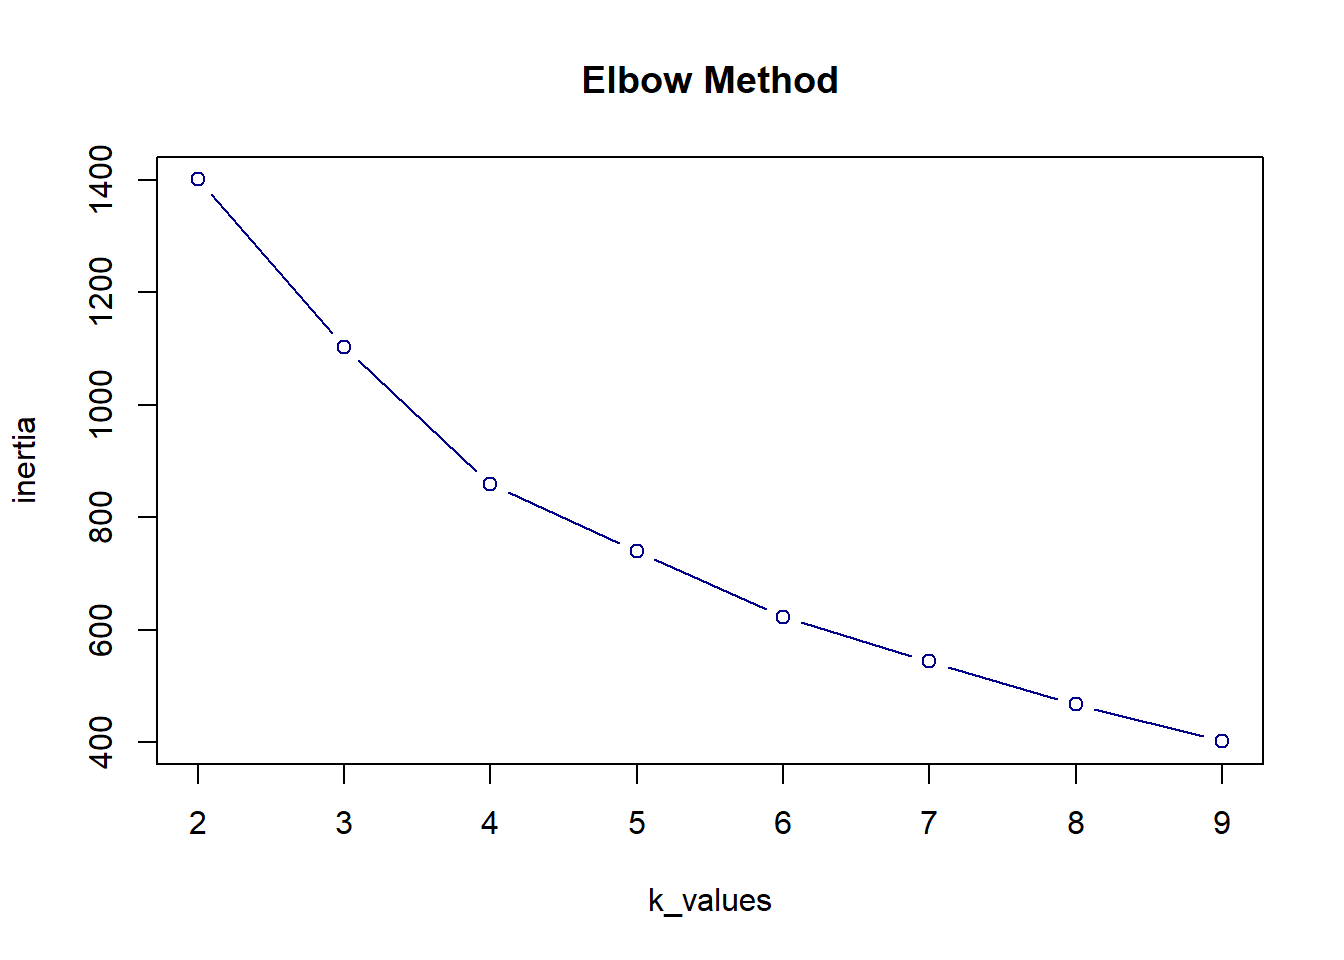
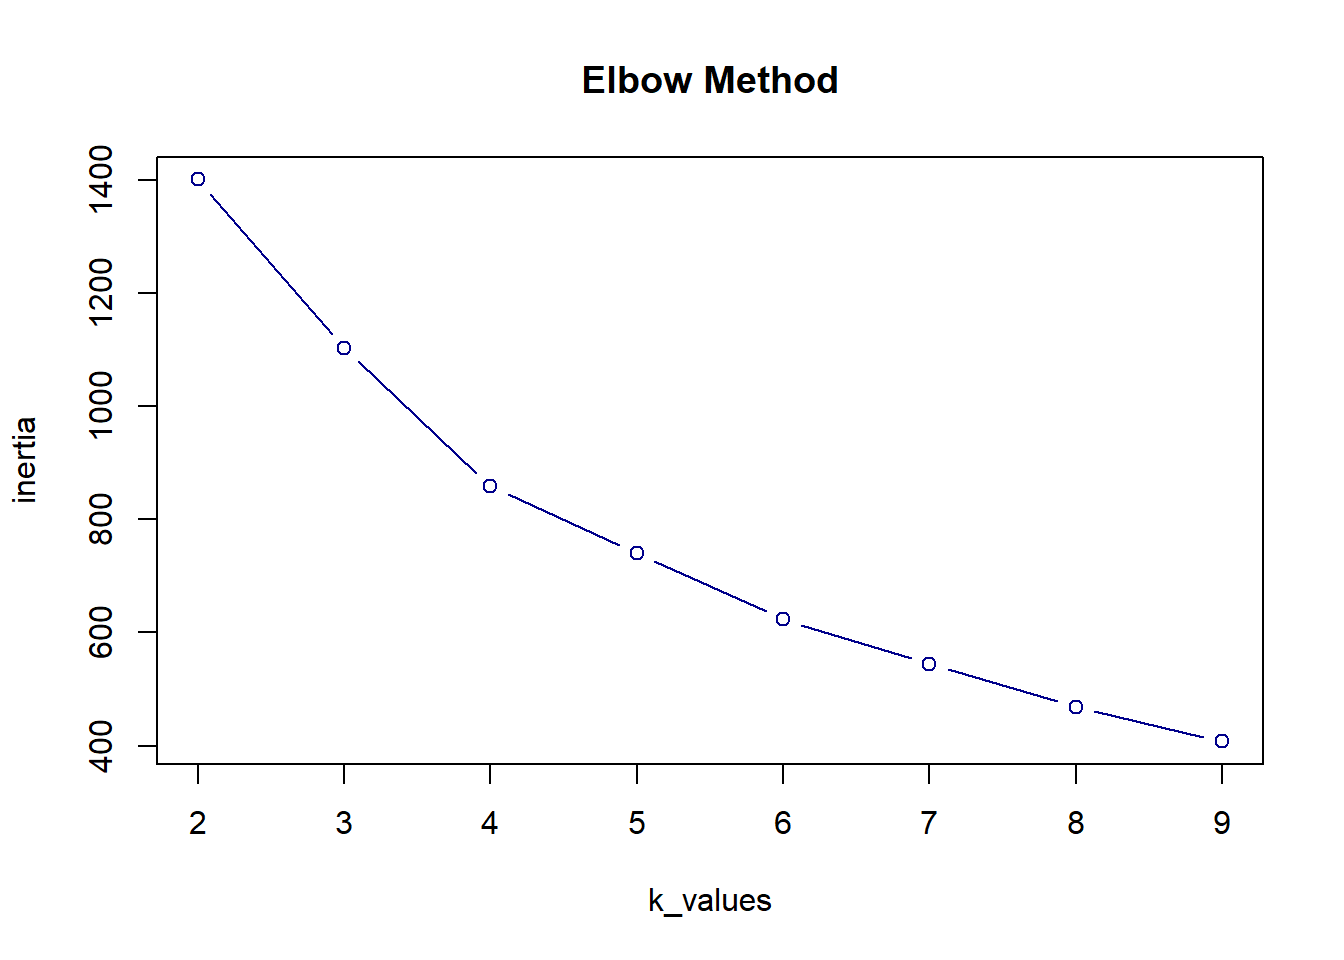
fixed one small typing error

diff --git a/report.html b/report.html
@@ -763,7 +763,7 @@ other polygons –&gt; 0</div>
 </section>
 <section id="biodiversity-conclusion" class="level4">
 <h4 class="anchored" data-anchor-id="biodiversity-conclusion">Biodiversity conclusion</h4>
-<p>In this part, we developed a spatially explicit composite biodiversity index map for the spatial geometry by weighting three criteria: <em>B1ndvi</em> (current state of vegetation based on NDVI), <em>B2uses</em> (connectivity to ÚSES – Slovakian official Spatial system of ecological stability), and <em>B3pot</em> (ecological quality improvement and feasibility potential). Because we agree that vegetative cover remains a dominant factor influencing riparian biodiversity, in line with existing ecological connection, we assigned <em>B3ndvi</em> with the highest weight (0.083), followed by <em>B1uses</em> (0.058) and <em>B2pot</em> (0.027).</p>
+<p>In this part, we developed a spatially explicit composite biodiversity index map for the spatial geometry by weighting three criteria: <em>B1uses</em> (connectivity to ÚSES – Slovakian official Spatial system of ecological stability), <em>B2pot</em> (ecological quality improvement and feasibility, potential), and <em>B3ndvi</em> (current state of vegetation based on NDVI). Because we agree that vegetative cover remains a dominant factor influencing riparian biodiversity, in line with existing ecological connection, we assigned <em>B3ndvi</em> with the highest weight (0.083), followed by <em>B1uses</em> (0.058) and <em>B2pot</em> (0.027).</p>
 <p>The conclusion map resembles the <em>B3ndvi</em> map a lot, with the addition of the ÚSES biocorridor(s) as higher priority. The two most important criteria, <em>B3ndvi</em> and B1uses are in a way contradictory: in ÚSES areas, it is more likely that the green has a high NDVI and therefore low <em>B3ndvi</em> value. However, in B1uses, spaces that are not green are also considered connected if they are adjacent to a green space continuously connected to ÚSES. Moreover, the supraregional biocorridor at the eastern edge of the city does not necessarily have high NDVI, as it is a larger structure.</p>
 <p>In general, the highest scores are in the east of the town, where the supraregional corridor passes the town, <em>B2pot</em> is the highest, and because of it being an urban area, NDVI is quite low -&gt; <em>B3ndvi</em> is quite high. <strong>Overall, the highest suitability for biodiversity-oriented interventions seems to be in neglected urban or industrial areas, and especially clearly in urban areas of suburban character in the east of the town.</strong> High values are also present in the water area at the north of the analysis area, however, we suspect that to be a mistake caused by improper use of NDVI data: for water, NDVI is very low, so the score of <em>B3ndvi</em> is very high, which is misleading.</p>
 <p>We recommend improving native biodiversity by implementing low maintenance nature-like native biotope landscaping in industrial areas. We also recommend improving biodiversity in the streets of the town with targeted interventions. In general, it is also beneficial to transform uniform fields to include dense vegetation patches that improve the resilience of local ecosystems and in general support biodiversity.</p>
@@ -1336,8 +1336,8 @@ Projected CRS: ETRS89 / UTM zone 33N
 4 5  740.4449
 5 6  623.5229
 6 7  544.3696
-7 8  471.1382
-8 9  428.2695</code></pre>
+7 8  468.2062
+8 9  407.6516</code></pre>
 </div>
 </div>
 <p>The changing of inertia with increasing k is visualised and based on the <em>elbow point</em> we choose the best value for k. After this elbow point, adding more clusters does not add much to the quality of the end results.</p>
